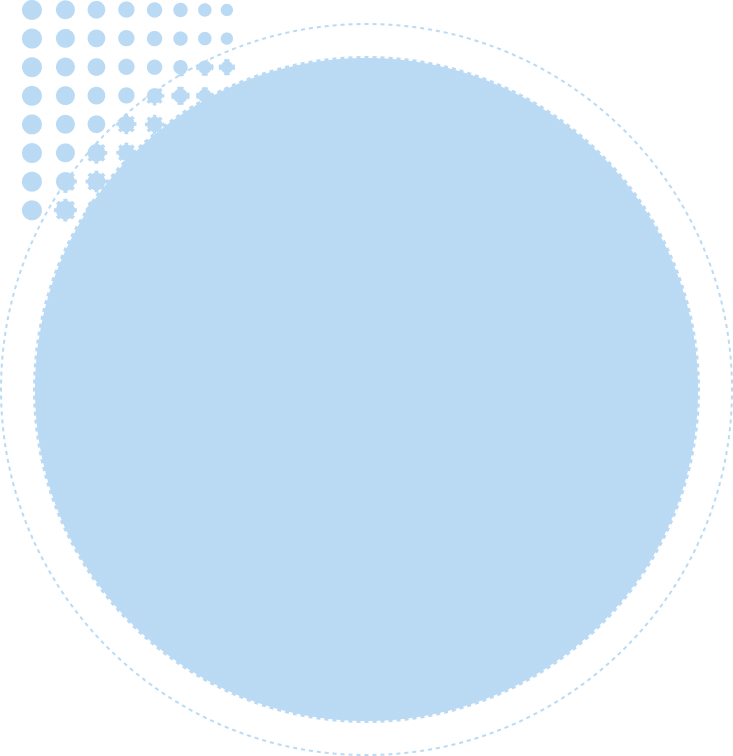
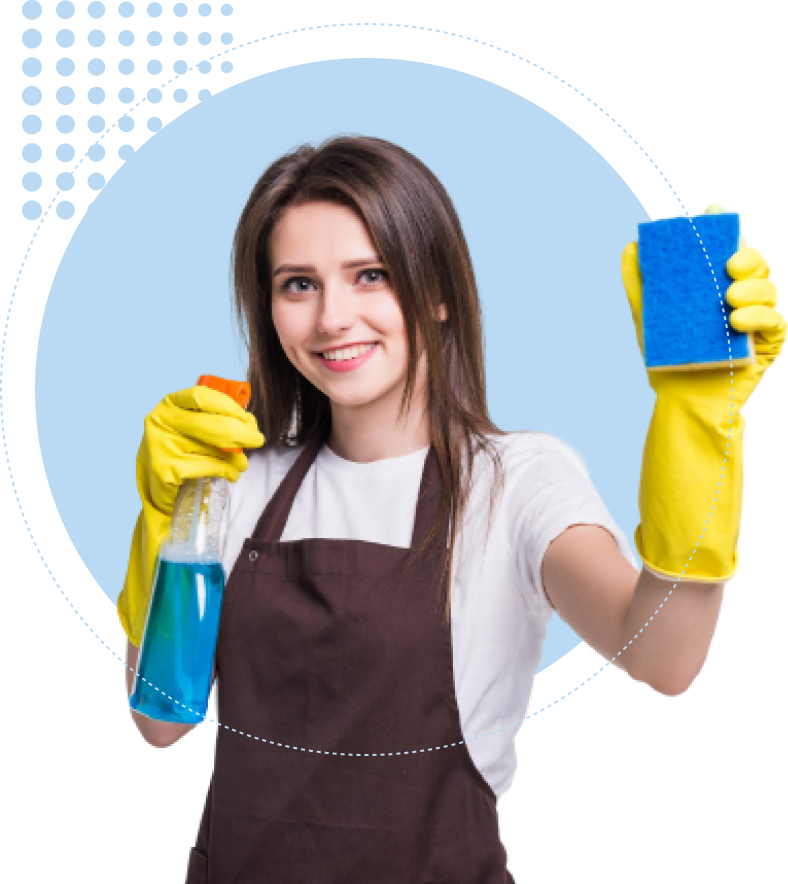
hero section done

diff --git a/index.html b/index.html
@@ -9,38 +9,85 @@
     <link rel="stylesheet" href="./css/main.css">
 </head>
 <body>
-  <!-- Header Start -->
-  <header class="side-header">
-    <div class="container">
-        <div class="header-wrapper">
-            <img class="top-logo" src="./images/top-logo.svg" 
-            alt="Cleaning Services" 
-            width="97" 
-            height="37">
-            <div class="header-end">
-                <nav class="site-nav">
-                    <ul class="nav-list">
-                        <li class="nav-list__item"><a class="nav-item__link" href="#">Home</a></li>
-                        <li class="nav-list__item"><a class="nav-item__link" href="#">About</a></li>
-                        <li class="nav-list__item"><a class="nav-item__link" href="#">Services</a></li>
-                        <li class="nav-list__item"><a class="nav-item__link" href="#">Blog</a></li>
-                        <li class="nav-list__item"><a class="nav-item__link" href="#">Testimonials</a></li>
-                        <li class="nav-list__item"><a class="nav-item__link" href="#">Contact</a></li>
-                    </ul>
-                </nav>
-                <div class="header-call">
-                    <img class="hader-call__img" src="./images/icons/header-phone.svg" 
-                    alt="phone" 
-                    width="12"
-                    height="12">
-                    <!-- <div class="header-call__text"> -->
-                    <a class="class_header-call_link" href="tel:+1 (243) 421 4121"><span class="header-call-title">Call us now</span>+1 (243) 421 4121</a>
-                    <!-- </div> -->
+    <!-- Header Start -->
+    <header class="side-header">
+        <div class="container">
+            <div class="header-wrapper">
+                <img class="top-logo" src="./images/top-logo.svg" 
+                alt="Cleaning Services" 
+                width="97" 
+                height="37">
+                <div class="header-end">
+                    <nav class="site-nav">
+                        <ul class="nav-list">
+                            <li class="nav-list__item"><a class="nav-item__link" href="#">Home</a></li>
+                            <li class="nav-list__item"><a class="nav-item__link" href="#">About</a></li>
+                            <li class="nav-list__item"><a class="nav-item__link" href="#">Services</a></li>
+                            <li class="nav-list__item"><a class="nav-item__link" href="#">Blog</a></li>
+                            <li class="nav-list__item"><a class="nav-item__link" href="#">Testimonials</a></li>
+                            <li class="nav-list__item"><a class="nav-item__link" href="#">Contact</a></li>
+                        </ul>
+                    </nav>
+                    <div class="header-call">
+                        <img class="hader-call__img" src="./images/icons/header-phone.svg" 
+                        alt="phone" 
+                        width="12"
+                        height="12">
+                        <!-- <div class="header-call__text"> -->
+                            <a class="class_header-call_link" href="tel:+1 (243) 421 4121"><span class="header-call-title">Call us now</span>+1 (243) 421 4121</a>
+                            <!-- </div> -->
+                        </div>
+                    </div>
                 </div>
             </div>
-        </div>
-    </div>
-</header>
-  <!-- Header End -->
-</body>
-</html>
+        </header>
+        <!-- Header End -->
+        <!-- Hero Section Start -->
+        <section class="hero-section">
+            <div class="container">
+                <div class="hero-Wrapper">
+                        <h1 class="hero-title">Cleaning Service
+                            From World Class
+                            Agency.</h1>
+                            <p class="hero-desc">Our services go beyond the basic services and provide you with clean your home and enhance your life.</p>
+                            <button class="hero-btn" type="button">Learn More</button>
+                            <div class="hero-end">
+                                <ul class="hero-list">
+                                    <li class="hero-list__item">
+                                        <p class="hero-item__number">345<span class="her-item__title">Project Done</span></p>
+                                    </li>
+                                    <li class="hero-list__item">
+                                        <p class="hero-item__number">1450+<span class="her-item__title">Satisfied Clients</span></p>
+                                    </li>
+                                    <li class="hero-list__item">
+                                        <p class="hero-item__number">100+<span class="her-item__title">Awards Winner</span></p>
+                                    </li>
+                                    <li class="hero-list__item">
+                                        <p class="hero-item__number">40+<span class="her-item__title">Team Members</span></p>
+                                    </li>
+                                </ul>
+                                <div class="hero-end-right">
+                                    <p class="hero-end-box__title">Our Creative Team</p>
+                                    <div class="end-box-images">
+                                        <img class="end-box-img" src="./images/icons/our-team-one.png"
+                                        alt="girl"
+                                        width="77"
+                                        height="74">
+                                        <img class="end-box-img" src="./images/icons/our-team-twopng.png"
+                                        alt="girl"
+                                        width="77"
+                                        height="74">
+                                        <img class="end-box-img" src="./images/icons/our-team-three.png"
+                                        alt="girl"
+                                        width="77"
+                                        height="74">
+                                        <p class="end-box-img">3+</p>
+                                    </div>
+                                </div>
+                            </div>
+                    </div>
+                </div>
+            </section>
+            <!-- Hero Section End -->
+        </body>
+        </html>

diff --git a/css/main.css b/css/main.css
@@ -115,6 +115,8 @@ img {
   padding-left: 20px;
 }
 
+/*Header Styles Start  */
+
 .side-header{
   padding-top: 27px;
   padding-bottom: 26px;
@@ -178,5 +180,164 @@ img {
   color: var(--main-title-color);
   margin-bottom: 7px;
 }
+/*Header Styles End  */
 
-.
+/* Hero Section Styles Start */
+
+.hero-section{
+  background-image: url(../images/hero-img.png);
+  background-position: calc(50% + 390px) calc(50% + 65px);
+  background-repeat: no-repeat;
+  background-color: var(--hero-bg-color);
+  padding-top: 133px;
+  /* padding-bottom: 91px; */
+}
+
+.hero-Wrapper{
+  position: relative;
+}
+
+.hero-title{
+  width: 641px;
+  margin-bottom: 24px;
+  font-family: 'Outfit';
+  font-style: normal;
+  font-weight: 700;
+  font-size: 72px;
+  line-height: 140%;
+  color: var(--main-title-color);
+}
+
+.hero-desc{
+  width: 617px;
+  margin-bottom: 48px;
+  font-size: 24px;
+  line-height: 172%;
+  color: var(--main-desc-color);
+}
+
+.hero-btn{
+  font-family: 'Rubik';
+  font-style: normal;
+  font-weight: 500;
+  font-size: 18px;
+  color: var(--header-bg-color);
+  margin-bottom: 92px;
+  padding: 18px 40px;
+  background-color: var(--main-btn-color);
+  border: 3px solid var(--main-btn-color);
+  border-radius: 4px;
+  
+}
+
+.hero-btn:hover{
+  color: var(--main-btn-color);
+  background-color: transparent;
+  border: 3px solid var(--main-btn-color);
+}
+
+.hero-end{
+  display: flex;
+  align-items: center;
+  justify-content: space-between;
+}
+
+.hero-list{
+  display: flex;
+  align-items: center;
+  justify-content: space-between;
+  width: 730px;
+}
+
+.hero-item__number{
+  display: flex;
+  flex-direction: column;
+  font-family: 'Rubik';
+  font-style: normal;
+  font-weight: 700;
+  font-size: 36px;
+  line-height: 100%;
+  color: var(--main-title-color);
+}
+
+.her-item__title{
+  margin-top: 12px;
+  font-family: 'Rubik';
+  font-style: normal;
+  font-weight: 400;
+  font-size: 20px;
+  line-height: 100%;
+  color: var(--main-desc-color);
+}
+
+.hero-end-right{
+  display: flex;
+  flex-direction: column;
+  align-items: center;
+  justify-content: center;
+  width: 359px;
+  height: 225px;
+  background-color: var(--header-bg-color);
+  border-radius: 28px 28px 0px 0px;
+}
+
+.hero-end-right::before{
+  position:absolute;
+  top: calc(50% + 145px);
+  left: calc(50% + 260px);
+  content: "";
+  width: 100px;
+  height: 100px;
+  background-color: #FCDC00;
+  background-image: url(../images/icons/hero-users.svg);
+  background-repeat: no-repeat;
+  border-radius: 50%;
+
+}
+
+.hero-end-box__title{
+  font-family: 'Outfit';
+  font-weight: 700;
+  font-size: 26px;
+  line-height: 100%;
+  color: var(--main-title-color);
+  margin-bottom: 48px;
+  
+}
+
+.end-box-images{
+  display: flex;
+}
+
+.end-box-img{
+  padding: 6px 0 1px 2px;
+  background-color: #48B774;
+  border-radius: 50%;
+}
+
+.end-box-img:nth-child(2){
+  padding: 6px 0 1px 2px;
+  background-color: #FF8345;
+  border-radius: 50%;
+  margin-left: -25px;
+}
+.end-box-img:nth-child(3){
+  padding: 6px 0 1px 2px;
+  background-color: #FFCA45;
+  border-radius: 50%;
+  margin-left: -25px;
+}
+.end-box-img:nth-child(4){
+  font-family: 'Outfit';
+  font-style: normal;
+  font-weight: 700;
+  font-size: 24px;
+  line-height: 100%;
+  color: var(--main-btn-color);
+  margin-left: -25px;
+  padding: 27px 25px 28px 26px;
+  background-color: #EDEDED;
+  border-radius: 50%;
+}
+
+/* Hero Section Styles End */
